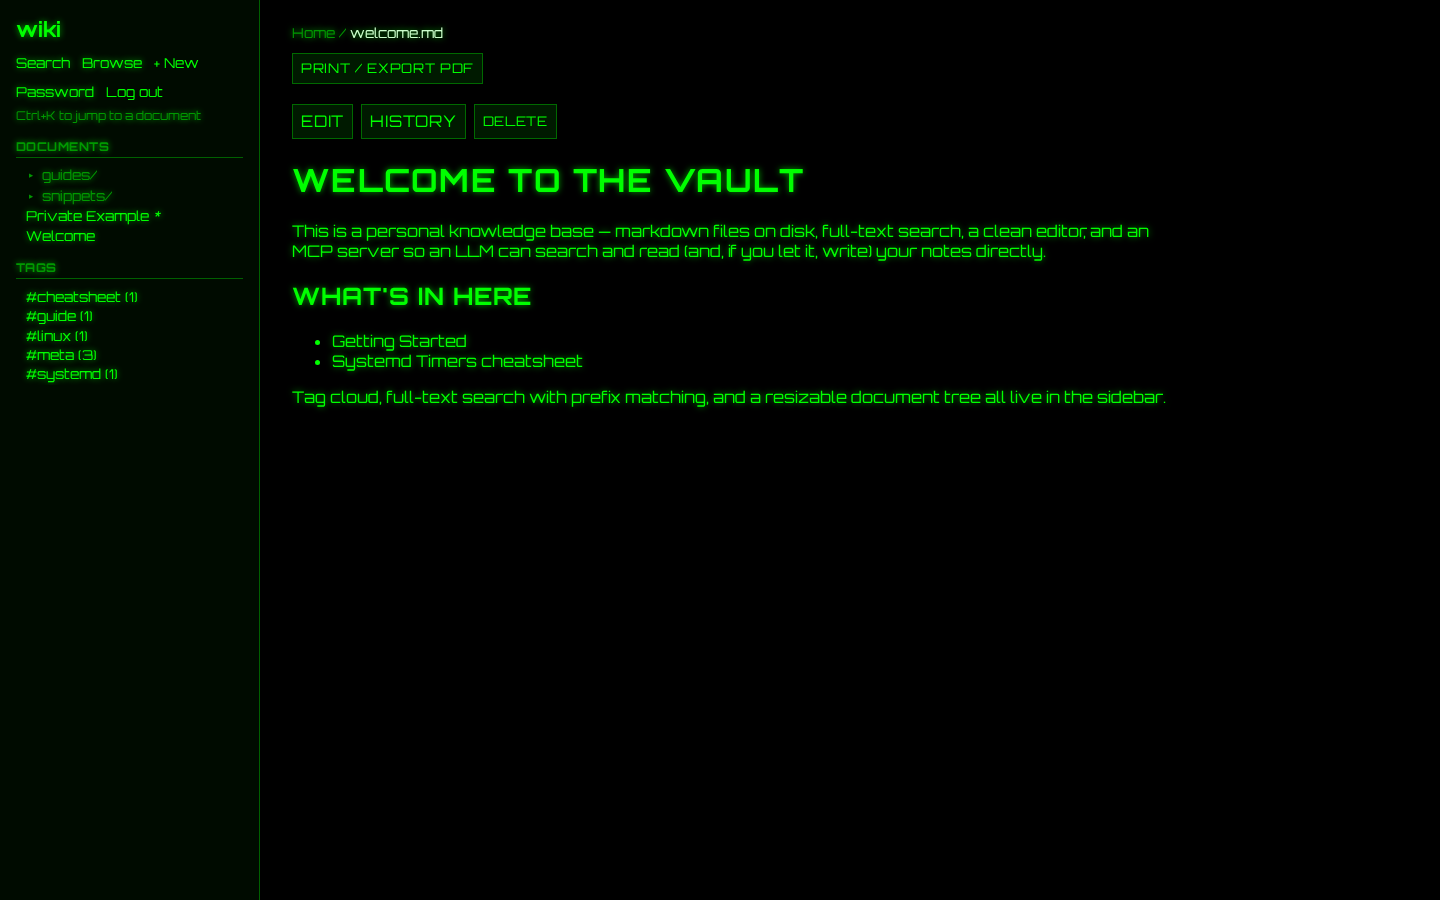
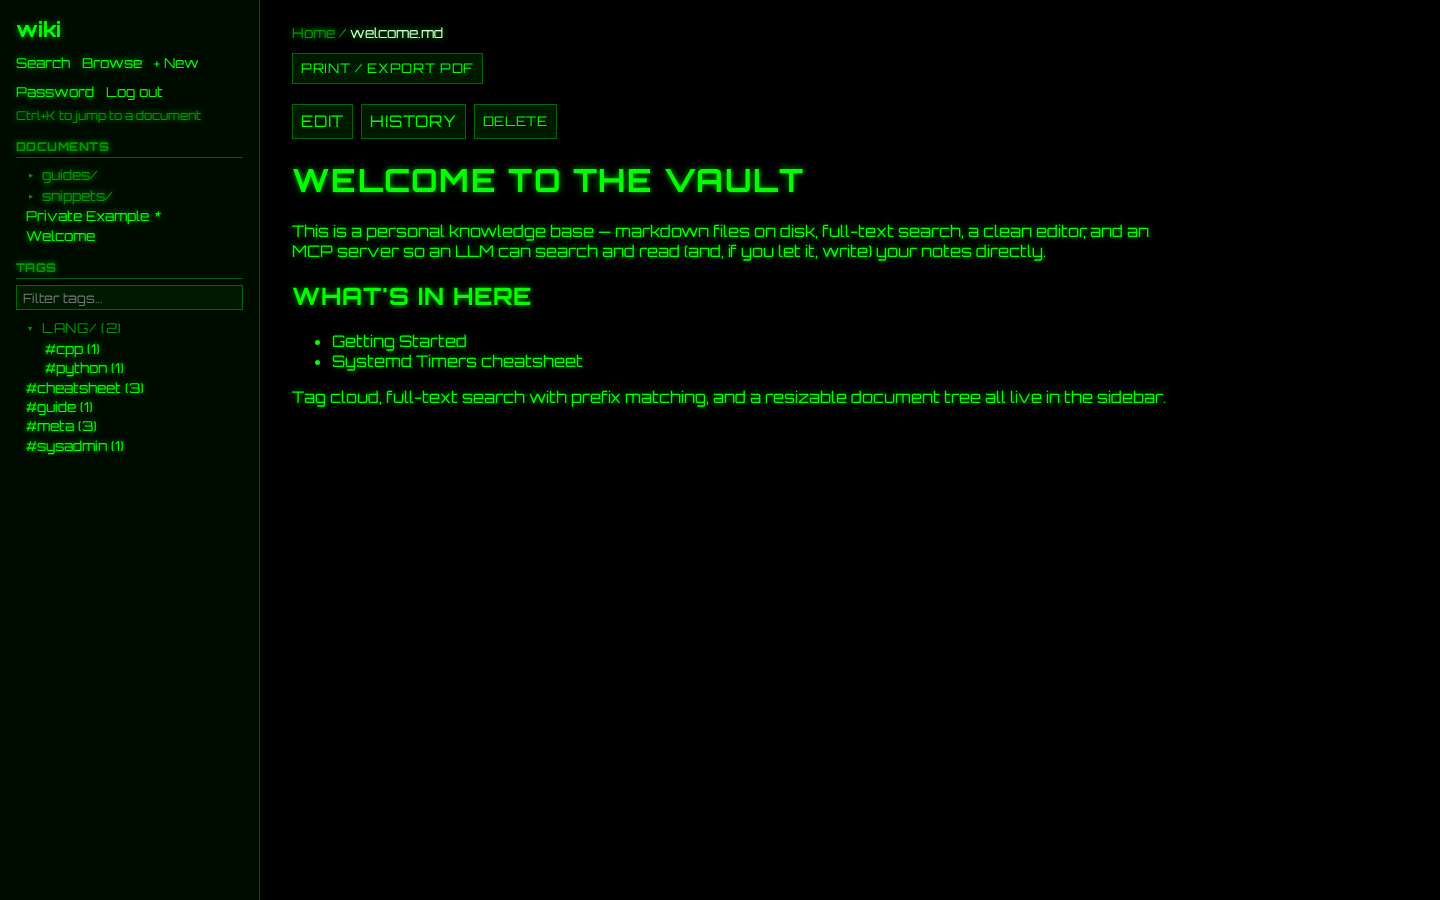
Refresh README screenshots: show the new tag filter + namespace tree
Recaptured all 6 (same CDP-driven headless-Chromium PNG approach as the
last screenshot pass) against an updated demo vault -- added lang/cpp
and lang/python tags so the sidebar has a real namespace group to show,
and pre-seeded wiki.expandedTagGroups in localStorage before the first
shot so it renders already expanded in every screenshot rather than the
collapsed-by-default state a first visit would actually show (same
localStorage key nav.js itself writes on a real click, verified live
in the previous session -- this is indistinguishable from a user having
opened it once).

The "Document view" caption now mentions the filterable, namespace-
grouped tags explicitly, since that's genuinely visible in the shot now
instead of a flat list.

Changed region(s): [[0.0, 0.3111, 0.0938, 0.5289]]

diff --git a/README.md b/README.md
@@ -17,7 +17,7 @@ what ships with it. Built to run comfortably on a Raspberry Pi.
 
 | | |
 |---|---|
-| ![Document view](docs/screenshots/document-view.png) **Document view** — tag cloud, resizable document tree, print/export | ![Backlinks](docs/screenshots/backlinks.png) **`[[wiki-links]]` + backlinks** — "Linked from" section, generated automatically |
+| ![Document view](docs/screenshots/document-view.png) **Document view** — filterable, namespace-grouped tags (`lang/cpp`, `lang/python`…), resizable document tree, print/export | ![Backlinks](docs/screenshots/backlinks.png) **`[[wiki-links]]` + backlinks** — "Linked from" section, generated automatically |
 | ![Search](docs/screenshots/search.png) **Full-text search** — FTS5 with prefix matching, `bm25()` ranking, tag/type filters | ![Editor](docs/screenshots/editor.png) **WYSIWYG editor** — Toast UI Editor, undo/redo, syntax-highlighted code blocks |
 | ![Browse](docs/screenshots/browse.png) **Folder browser** — every document and folder, one click away | ![Account page](docs/screenshots/account-mcp.png) **Admin panel** — one-click vault backup, remote MCP with a bearer token and IP allowlist |
 
